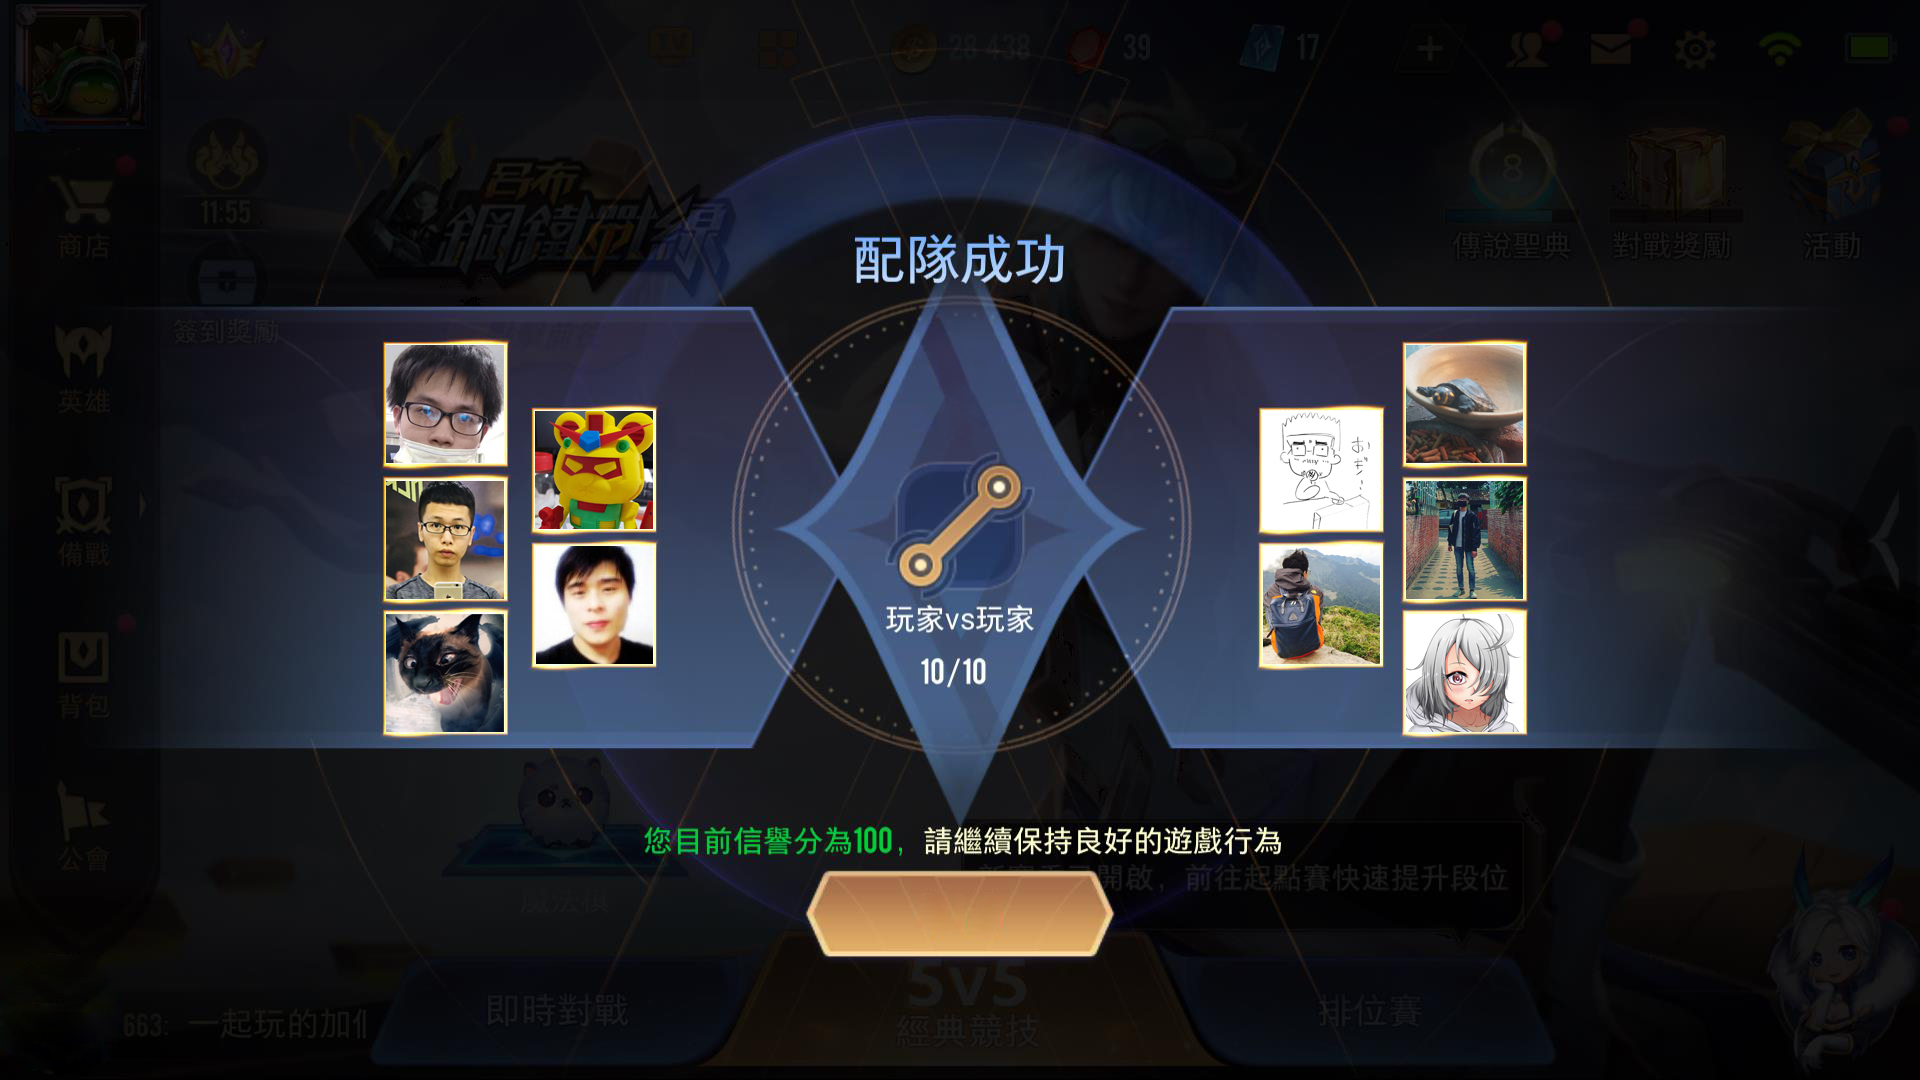
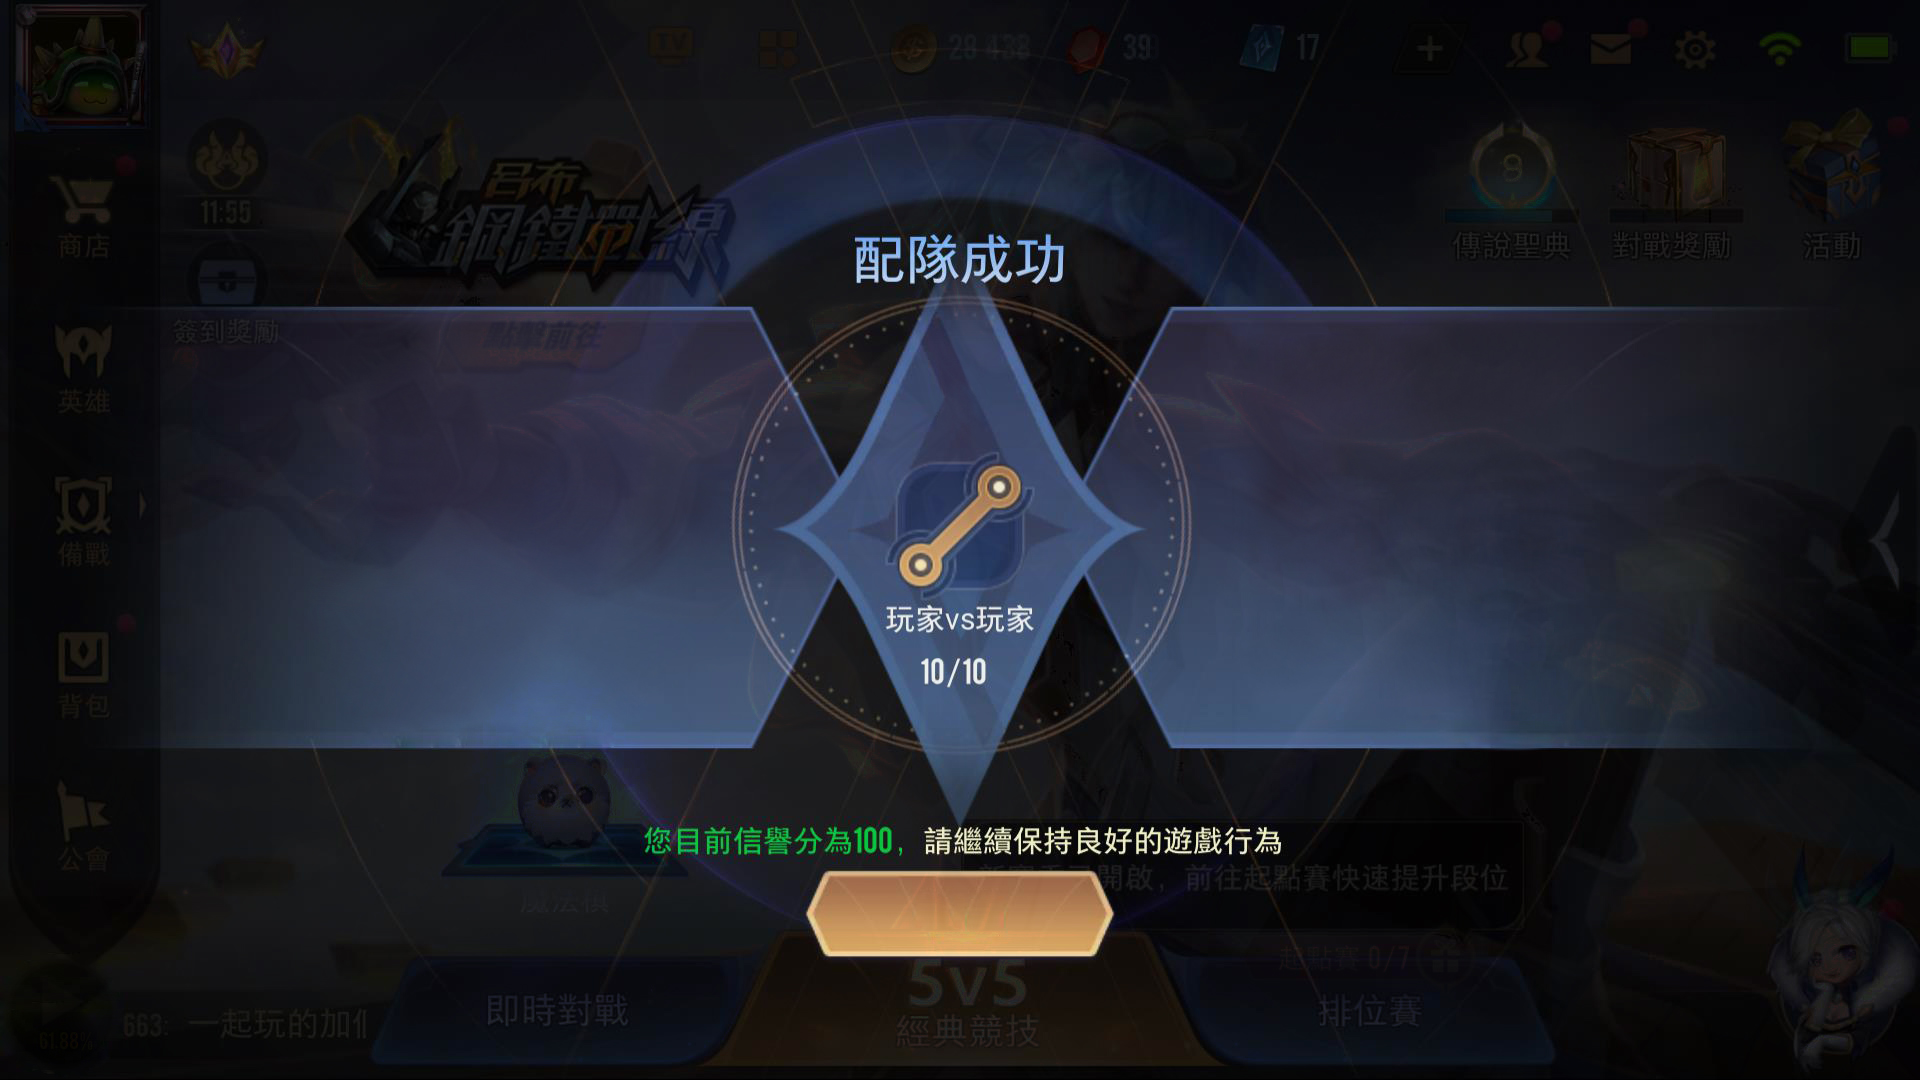
parallax test

Changed region(s): [[0.6562, 0.3056, 0.8125, 0.7028], [0.1875, 0.3056, 0.3438, 0.7028]]

diff --git a/index copy.html b/index copy.html
@@ -88,10 +88,10 @@
         height: 100%;
         /* background-image: url(img/open5.jpg); */
         /* 之後問老師怎麼換照片，再改回 */
-        background-position: center;
+        background-position: left;
         /* 原cover暫用contain */
         background-size: cover;
-        /* background-repeat: no-repeat; */
+        background-repeat: no-repeat;
         animation-name: showit;
         animation-duration: 2s;
         animation-delay: 5s;
@@ -99,11 +99,11 @@
         top: 0;
         left: 0;
         z-index: 1;
-        opacity: 0;
+        opacity: 1;
         animation-fill-mode: forwards;
     }
 
-    .pic span {
+    .pic #number {
         color: white;
         font-family: "Franklin Gothic Heavy";
         font-size: 5.5rem;
@@ -111,6 +111,28 @@
         left: 50%;
         top: 50%;
         transform: translate(-50%, -200%);
+    }
+
+    .fullpage{
+        width: 100%;
+        height: 100%;
+    }
+
+    /* #scroll{
+        animation-name: showit;
+        animation-duration: 2s;
+        animation-delay: 12s;
+        animation-iteration-count:infinite;
+        position: absolute;
+        top: 0;
+        left: 0;
+        z-index: 7;
+        opacity: 0;
+        animation-fill-mode: forwards;
+    } */
+
+    #scene{
+        overflow: hidden;
     }
 
     @media (max-width:768px) {
@@ -128,8 +150,10 @@
         }
     }
 
+    
+
     @media (max-width:576px) {
-        .pic span {
+        .pic #number {
             font-size: 2rem;
             position: absolute;
             left: 50%;
@@ -153,10 +177,11 @@
             <div class="mask-botton"></div>
         </div>
         <div class="pic" style="background-image: url(img/openpic.jpg);">
-            <span>5</span>
+            <span id="number">5</span>
+            <span id="scroll">scroll</span>
             <div id="scene" class="fullpage">
                 <div id="avatar1" data-depth="0.1" class="fullpage"><img src="img/avatar1.png" alt="" class="fullpage"></div>
-                <div id="avatar2" data-depth="0.4"><img src="img/avatar2.jpg" alt=""></div>
+                <!-- <div id="avatar2" data-depth="0.4"><img src="img/avatar2.jpg" alt=""></div>
                 <div id="avatar3" data-depth="0.6"><img src="img/avatar3.jpg" alt=""></div>
                 <div id="avatar4" data-depth="0.8"><img src="img/avatar4.jpg" alt=""></div>
                 <div id="avatar5" data-depth="1.0"><img src="img/avatar5.jpg" alt=""></div>
@@ -164,7 +189,7 @@
                 <div id="avatar7" data-depth="1.4"><img src="img/avatar7.jpg" alt=""></div>
                 <div id="avatar8" data-depth="1.6"><img src="img/avatar8.jpg" alt=""></div>
                 <div id="avatar9" data-depth="1.8"><img src="img/avatar9.jpg" alt=""></div>
-                <div id="avatar10" data-depth="2"><img src="img/avatar10.jpg" alt=""></div>
+                <div id="avatar10" data-depth="2"><img src="img/avatar10.jpg" alt=""></div> -->
             </div>
         </div>
     </section>
@@ -180,6 +205,7 @@
     <script src="https://cdnjs.cloudflare.com/ajax/libs/parallax/3.1.0/parallax.min.js"></script>
 
     <script>
+
         var scene = document.querySelector('#scene');
         var parallaxInstance = new Parallax(scene);
 
@@ -196,7 +222,7 @@
             player = new YT.Player('player', {
                 height: '100%',
                 width: '100%',
-                videoId: 'DLdlV1PQOZc',
+                videoId: 'OGZjX8zVoYE',
                 events: {
                     'onReady': onPlayerReady,
                     // 'onStateChange': function (event) {
